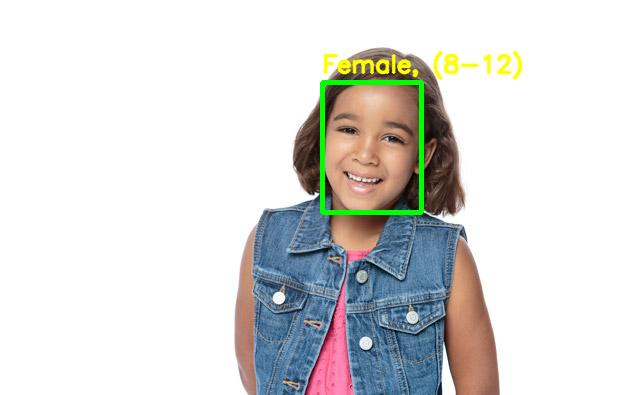
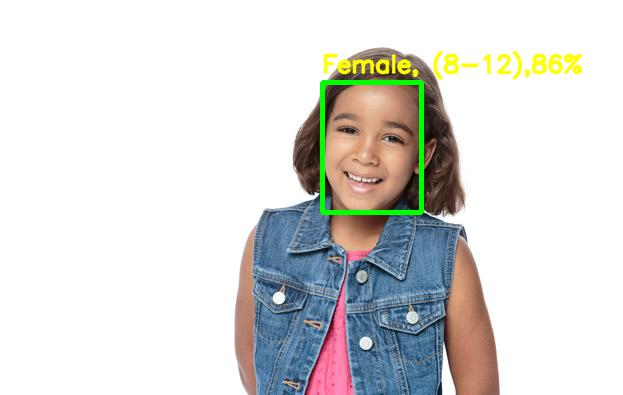
updated README.md file and added a few results from GUI

Changed region(s): [[0.8234, 0.1215, 0.9454, 0.2127], [0.6709, 0.3646, 0.7014, 0.3949]]

diff --git a/README.md b/README.md
@@ -1,14 +1,13 @@
-# Gender-and-Age-Detection   <img alt="GitHub" src="https://img.shields.io/github/license/smahesh29/Gender-and-Age-Detection">
-
+# Gender-and-Age-Detection   
 
 <h2>Objective :</h2>
-<p>To build a gender and age detector that can approximately guess the gender and age of the person (face) in a picture or through webcam.</p>
+<p>To  build a face recognition, gender and age detector that can approximately guess the gender and age of the person (face) in a picture .</p>
 
 <h2>About the Project :</h2>
-<p>In this Python Project, I had used Deep Learning to accurately identify the gender and age of a person from a single image of a face. I used the models trained by <a href="https://talhassner.github.io/home/projects/Adience/Adience-data.html">Tal Hassner and Gil Levi</a>. The predicted gender may be one of ‘Male’ and ‘Female’, and the predicted age may be one of the following ranges- (0 – 2), (4 – 6), (8 – 12), (15 – 20), (25 – 32), (38 – 43), (48 – 53), (60 – 100) (8 nodes in the final softmax layer). It is very difficult to accurately guess an exact age from a single image because of factors like makeup, lighting, obstructions, and facial expressions. And so, I made this a classification problem instead of making it one of regression.</p>
+<p>In this Python Project,we have used Deep Learning to accurately identify the gender and age of a person from a single image of a face. We used the models trained by <a href="https://talhassner.github.io/home/projects/Adience/Adience-data.html">Tal Hassner and Gil Levi</a>. The predicted gender may be one of ‘Male’ and ‘Female’, and the predicted age may be one of the following ranges- (0 – 2), (4 – 6), (8 – 12), (15 – 20), (25 – 32), (38 – 43), (48 – 53), (60 – 100) (8 nodes in the final softmax layer). It is very difficult to accurately guess an exact age from a single image because of factors like makeup, lighting, obstructions, and facial expressions. And so, we made this a classification problem instead of making it one of regression.</p>
 
 <h2>Dataset :</h2>
-<p>For this python project, I had used the Adience dataset; the dataset is available in the public domain and you can find it <a href="https://www.kaggle.com/ttungl/adience-benchmark-gender-and-age-classification">here</a>. This dataset serves as a benchmark for face photos and is inclusive of various real-world imaging conditions like noise, lighting, pose, and appearance. The images have been collected from Flickr albums and distributed under the Creative Commons (CC) license. It has a total of 26,580 photos of 2,284 subjects in eight age ranges (as mentioned above) and is about 1GB in size. The models I used had been trained on this dataset.</p>
+<p>For this python project, we have used the Adience and IMDB-wiki; the dataset is available in the public domain and you can find it <a href="https://www.kaggle.com/ttungl/adience-benchmark-gender-and-age-classification">here</a> and here <a href="https://data.vision.ee.ethz.ch/cvl/rrothe/imdb-wiki/"></a>. This dataset serves as a benchmark for face photos and is inclusive of various real-world imaging conditions like noise, lighting, pose, and appearance. The images have been collected from Flickr albums and distributed under the Creative Commons (CC) license. It has a total of 26,580 photos of 2,284 subjects in eight age ranges (as mentioned above) and is about 1GB in size. The models we  used had been trained on this dataset.</p>
 
 <h2>Additional Python Libraries Required :</h2>
 <ul>
@@ -16,11 +15,7 @@
   
        pip install opencv-python
 </ul>
-<ul>
- <li>argparse</li>
-  
-       pip install argparse
-</ul>
+
 
 <h2>The contents of this Project :</h2>
 <ul>
@@ -32,73 +27,34 @@
   <li>gender_net.caffemodel</li>
   <li>a few pictures to try the project on</li>
   <li>detect.py</li>
+  <li>main.py</li>
  </ul>
- <p>For face detection, we have a .pb file- this is a protobuf file (protocol buffer); it holds the graph definition and the trained weights of the model. We can use this to run the trained model. And while a .pb file holds the protobuf in binary format, one with the .pbtxt extension holds it in text format. These are TensorFlow files. For age and gender, the .prototxt files describe the network configuration and the .caffemodel file defines the internal states of the parameters of the layers.</p>
+ <p>For face detection, we have a .pb file- this is a protobuf file (protocol buffer); it holds the graph definition and the trained weights of the model. We can use this to run the trained model. And while a .pb file holds the protobuf in binary format, one with the .pbtxt extension holds it in text format. These are TensorFlow files. For age and gender, the .prototxt files describe the network configuration and the .caffemodel file defines the internal states of the parameters of the layers.
+The main.py file is the GUI integration of our detect.py script</p>
  
  <h2>Usage :</h2>
  <ul>
   <li>Download my Repository</li>
-  <li>Open your Command Prompt or Terminal and change directory to the folder where all the files are present.</li>
-  <li><b>Detecting Gender and Age of face in Image</b> Use Command :</li>
   
-      python detect.py --image <image_name>
-</ul>
-  <p><b>Note: </b>The Image should be present in same folder where all the files are present</p> 
-<ul>
-  <li><b>Detecting Gender and Age of face through webcam</b> Use Command :</li>
+  <li><b>Detecting Face, Gender and Age of face in Image</b> Use Command :</li>
   
-      python detect.py
+      python main.py 
 </ul>
-<ul>
-  <li>Press <b>Ctrl + C</b> to stop the program execution.</li>
-</ul>
+  <p><b>This will open up the GUI of the app</b></p> 
+
+
 
 # Working:
-[![Watch the video](https://img.youtube.com/vi/ReeccRD21EU/0.jpg)](https://youtu.be/ReeccRD21EU)
+
 
 <h2>Examples :</h2>
-<p><b>NOTE:- I downloaded the images from Google,if you have any query or problem i can remove them, i just used it for Educational purpose.</b></p>
+<p><b>NOTE:- We downloaded the images from Google,if you have any query or problem we can remove them, we just used it for Educational purpose.</b></p>
 
-    >python detect.py --image girl1.jpg
-    Gender: Female
-    Age: 25-32 years
     
-<img src="Example/Detecting age and gender girl1.png">
+<img src="GUI-results/detection_man1.png"><br>
 
-    >python detect.py --image girl2.jpg
-    Gender: Female
-    Age: 8-12 years
-    
-<img src="Example/Detecting age and gender girl2.png">
+<img src="GUI-results/detection_girl1.png"><br>
 
-    >python detect.py --image kid1.jpg
-    Gender: Male
-    Age: 4-6 years    
-    
-<img src="Example/Detecting age and gender kid1.png">
-
-    >python detect.py --image kid2.jpg
-    Gender: Female
-    Age: 4-6 years  
-    
-<img src="Example/Detecting age and gender kid2.png">
-
-    >python detect.py --image man1.jpg
-    Gender: Male
-    Age: 38-43 years
-    
-<img src="Example/Detecting age and gender man1.png">
-
-    >python detect.py --image man2.jpg
-    Gender: Male
-    Age: 25-32 years
-    
-<img src="Example/Detecting age and gender man2.png">
-
-    >python detect.py --image woman1.jpg
-    Gender: Female
-    Age: 38-43 years
-    
-<img src="Example/Detecting age and gender woman1.png">
+<img src="GUI-results/detection_woman1.png">
     
     
